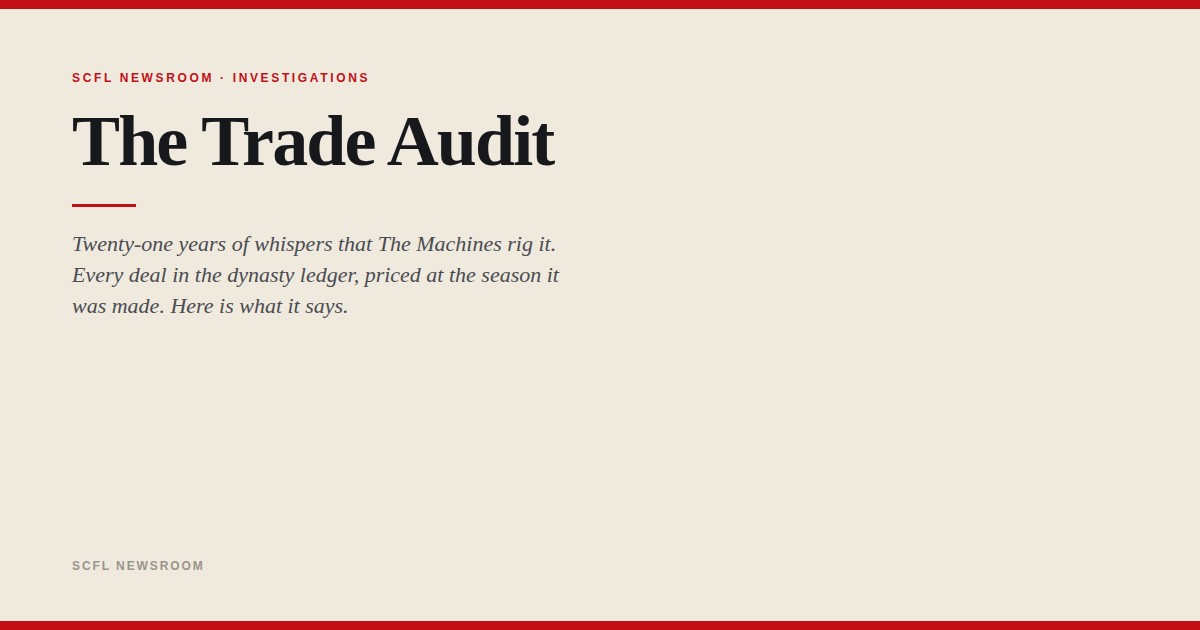
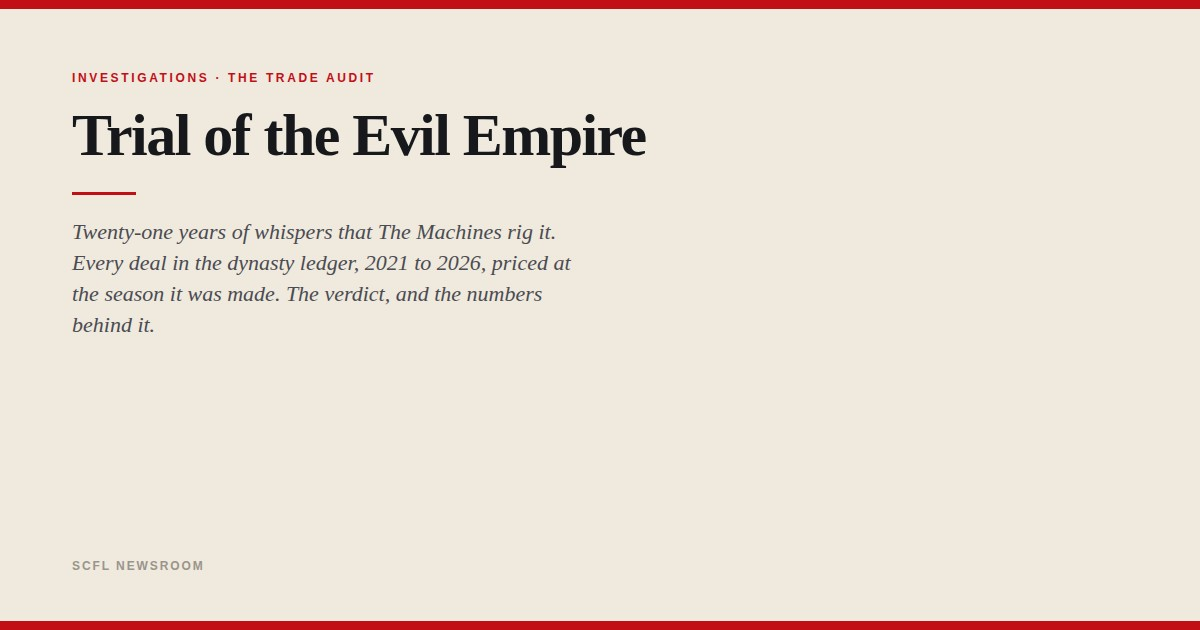
Trial of the Evil Empire, under the magazine masthead
New headline, and the cover now runs the Skirt Chasers wordmark rather
than a title set in type for this one story. It is the cut version with
the paper already removed, so it sits straight on the art, with the
Fantasy League Magazine strapline under it between gold rules -- the
same lockup the week issues were sampled with.

Two things the cover was doing wrong and nobody had looked at:

- the kicker read "SCFL NEWSROOM - SCFL NEWSROOM". The builder split
  the configured kicker on its separator, took the first half, then
  appended the newsroom again. It prints the kicker.
- a cover art file that is NAMED but not on disk rendered as a broken
  image icon across the headline. This article has no artwork yet, so
  it was one. The cover now checks the file is there and runs
  typographic if it is not, which is the house fallback everywhere
  else, and says so in the build output.

Title, tab, share card and og description all follow the new headline.

Claude-Session: https://claude.ai/code/session_01UFuyFKGPqfLKJjzL4J7sQk

diff --git a/scfl-trade-audit.html b/scfl-trade-audit.html
@@ -1,18 +1,18 @@
 <!doctype html>
 <html lang="en"><head><meta charset="utf-8">
 <meta name="viewport" content="width=device-width,initial-scale=1,viewport-fit=cover">
-<title>The Trade Audit — SCFL Investigations</title>
-<meta name="scfl:kicker" content="SCFL NewsRoom · Investigations">
+<title>Trial of the Evil Empire — SCFL Investigations</title>
+<meta name="scfl:kicker" content="Investigations · The Trade Audit">
 <meta property="og:type" content="article">
 <meta property="og:site_name" content="Skirt Chasers — Dynasty League Magazine">
-<meta property="og:title" content="The Trade Audit — Not Guilty of Cheating. Guilty of Being Good.">
-<meta property="og:description" content="Twenty-one years of whispers that The Machines rig it. Every deal in the dynasty ledger, priced at the season it was made. Here is what it says.">
+<meta property="og:title" content="Trial of the Evil Empire">
+<meta property="og:description" content="Twenty-one years of whispers that The Machines rig it. Every deal in the dynasty ledger, 2021 to 2026, priced at the season it was made. The verdict, and the numbers behind it.">
 <meta property="og:url" content="https://watsoncapitalinvest-dot.github.io/Claude/scfl-trade-audit.html">
 <meta property="og:image" content="https://watsoncapitalinvest-dot.github.io/Claude/scfl-trade-audit-og.jpg">
-<meta property="og:image:alt" content="The Trade Audit — Not Guilty of Cheating. Guilty of Being Good.">
+<meta property="og:image:alt" content="Trial of the Evil Empire">
 <meta name="twitter:card" content="summary_large_image">
-<meta name="twitter:title" content="The Trade Audit — Not Guilty of Cheating. Guilty of Being Good.">
-<meta name="twitter:description" content="SCFL: every Machines trade pulled, priced and counted. The verdict.">
+<meta name="twitter:title" content="Trial of the Evil Empire">
+<meta name="twitter:description" content="Trial of the Evil Empire: every Machines trade pulled, priced and counted.">
 <meta name="twitter:image" content="https://watsoncapitalinvest-dot.github.io/Claude/scfl-trade-audit-og.jpg">
 <link rel="icon" href="newsroom-favicon.png">
 <style>
@@ -78,6 +78,18 @@ p.b b{color:var(--ink);}
 .pc-art{flex:1 1 auto;min-height:0;width:100%;object-fit:contain;display:block;}
 .pc-bot{flex:0 0 auto;position:relative;text-align:center;padding:14px 22px 0;
   background:linear-gradient(180deg,rgba(10,8,6,0) 0%,#0a0806 22%);margin-top:-26px;}
+/* The magazine wordmark, when a story runs under the masthead rather than
+   under a title set in type. It arrives with its paper already cut away
+   (scripts/cut_wordmark.py), so it sits on the art with nothing behind it. */
+.pc-wm{display:block;width:84%;max-width:330px;height:auto;margin:0 auto;
+  filter:drop-shadow(0 3px 16px rgba(0,0,0,.95));}
+.pc-wmtag{display:flex;align-items:center;gap:9px;max-width:330px;margin:7px auto 0;}
+.pc-wmtag::before,.pc-wmtag::after{content:'';flex:1;height:1px;}
+.pc-wmtag::before{background:linear-gradient(90deg,transparent,#d8b45a);}
+.pc-wmtag::after{background:linear-gradient(90deg,#d8b45a,transparent);}
+.pc-wmtag span{font-family:var(--serif);font-weight:700;font-size:9.5px;letter-spacing:.26em;
+  text-transform:uppercase;color:#efe7d2;white-space:nowrap;
+  text-shadow:0 2px 10px rgba(0,0,0,.95);}
 .pc-mast{font-family:var(--serif);font-weight:900;font-size:44px;line-height:.98;color:#f7f3ec;
   text-shadow:0 2px 14px rgba(0,0,0,.9);}
 .pc-mast span{color:#e8393e;}
@@ -195,8 +207,8 @@ p.b b{color:var(--ink);}
 </head>
 <body>
 <div class="book"><div class="pages">
-<section class="page"><div class="photocover"><div class="pc-kick">SCFL NewsRoom &middot; SCFL NewsRoom</div><img class="pc-art" src="" alt="Not Guilty of Cheating. Guilty of Being Good."><div class="pc-bot"><div class="pc-mast">The Trade <span>Audit</span></div><div class="pc-rule"></div><div class="pc-h">Not Guilty of Cheating. Guilty of Being Good.</div><div class="pc-dek">For twenty-one years the league has whispered that The Machines rig it. We pulled every trade in the dynasty ledger — 2021 to 2026, the whole of it — and priced every asset at the season it moved in. Here is what it says.</div><div class="pc-by">The SCFL NewsRoom</div></div></div></section>
-<section class="page"><div class="page-inner"><div class="runhead">SCFL NewsRoom · Investigations · The Trade Audit</div><span class="flag">The Ledger · A Trade Audit</span><div class="dateline">WEST PALM BEACH, FLA.</div><h1 class="hl">Not Guilty of Cheating. Guilty of Being Good.</h1><p class="dek">For twenty-one years the league has whispered that The Machines rig it. We pulled every trade in the dynasty ledger — 2021 to 2026, the whole of it — and priced every asset at the season it moved in. Here is what it says.</p><p class="b"><span class="drop">T</span>here is a theory of the Skirt Chasers Fantasy League that has survived longer than most of the franchises in it. The theory is simple and it is repeated, in some form, every single autumn: The Machines cheat. The Machines are the Evil Empire. He preys on the weak owners, he collects the rebuilders like toll booths, and the rest of the league is left to split the scraps he does not want. It is a good story. It has a villain, it has victims, and it explains — cleanly, comfortably — why the same team keeps ending up on top. This newsroom decided to do the one thing nobody in twenty-one years of group chat had bothered to do. We pulled the receipts.</p></div></section>
+<section class="page"><div class="photocover"><div class="pc-kick">Investigations · The Trade Audit</div><div class="pc-bot"><img class="pc-wm" src="wordmark-alt-words.png" alt="Skirt Chasers"><div class="pc-wmtag"><span>Fantasy League Magazine</span></div><div class="pc-rule"></div><div class="pc-h">Trial of the Evil Empire</div><div class="pc-dek">For twenty-one years the league has whispered that The Machines rig it. We pulled every trade in the dynasty ledger — 2021 to 2026, the whole of it — and priced every asset at the season it moved in. Here is what it says.</div><div class="pc-by">The SCFL NewsRoom</div></div></div></section>
+<section class="page"><div class="page-inner"><div class="runhead">SCFL NewsRoom · Investigations · The Trade Audit</div><span class="flag">The Ledger · A Trade Audit</span><div class="dateline">WEST PALM BEACH, FLA.</div><h1 class="hl">Trial of the Evil Empire</h1><p class="dek">For twenty-one years the league has whispered that The Machines rig it. We pulled every trade in the dynasty ledger — 2021 to 2026, the whole of it — and priced every asset at the season it moved in. Here is what it says.</p><p class="b"><span class="drop">T</span>here is a theory of the Skirt Chasers Fantasy League that has survived longer than most of the franchises in it. The theory is simple and it is repeated, in some form, every single autumn: The Machines cheat. The Machines are the Evil Empire. He preys on the weak owners, he collects the rebuilders like toll booths, and the rest of the league is left to split the scraps he does not want. It is a good story. It has a villain, it has victims, and it explains — cleanly, comfortably — why the same team keeps ending up on top. This newsroom decided to do the one thing nobody in twenty-one years of group chat had bothered to do. We pulled the receipts.</p></div></section>
 <section class="page"><div class="page-inner"><div class="runhead">SCFL NewsRoom · Investigations · The Trade Audit</div><p class="b">The record itself is not in dispute, and it is the reason the theory exists at all. The Machines are 215-63 across the tracked era — a .773 winning percentage in a league where the next best side to have gone the full twenty-one seasons, The Beaver Eaters, sits on .590. Twenty playoff appearances in twenty-one seasons. Four championships, nine runner-up finishes, an all-play record (3,198-944-28) that reads like a typo. You do not have to like it to respect it, and most of the league has chosen the first option. When a team is that good for that long, the human brain does not reach for "well-run." It reaches for "rigged." That instinct is the entire case for the prosecution, and it is worth taking seriously — so we did.</p></div></section>
 <section class="page"><div class="page-inner"><div class="runhead">SCFL NewsRoom · Investigations · The Trade Audit</div><p class="b">The charge, stated plainly, is collusion: that The Machines win because a handful of soft, compliant owners feed them their best players for pennies. If that were true, it would leave a fingerprint. Collusion is narrow by nature — you cannot conspire with the whole room. So we mapped every trade in the itemised ledger, 256 deals from 2021 to 2026, which is the dynasty era and all of it; there was no dynasty market before that and so there is nothing before that to read. Sixty-seven of those deals have The Machines on one side of the table.</p><p class="b">The first thing the ledger does is refuse to clear him. His most frequent partner is Lil Chops, with fifteen deals. Second is Wookie Leaks, with fourteen. Between them that is twenty-nine of his sixty-seven deals — about 43 per cent of everything he has done — and both of them come from the bottom of the all-time table. Wookie Leaks have the worst winning percentage of any side still in this league, 51-97, and have never made the playoffs in eleven seasons. Lil Chops are third-worst of the sixteen, at 40-56. If you wanted to draw the prosecution case as a chart, that is the chart. We are not going to pretend otherwise, because it is the first thing in the file.</p></div></section>
 <section class="page"><div class="page-inner"><div class="runhead">SCFL NewsRoom · Investigations · The Trade Audit</div><p class="b">The second thing the ledger does is refuse to convict him. Those sixty-seven deals are spread across fourteen different franchises — effectively everyone who has held a roster in the dynasty era. Twenty-seven of them were with sides that have made the playoffs ten times or more. Twenty-six were with sides that have won the thing. His joint-second most frequent partner is Powers of Pain, who own five championships — more than The Machines do — and who have done eight deals with them. That is not a cabal of three. That is a man doing business with the entire building, including the parts of it that can beat him.</p></div></section>
@@ -225,5 +237,5 @@ function hideHint(){if(hint){hint.classList.add('gone');setTimeout(function(){hi
 window.SCFLFlip={go:function(i){if(busy)return;i=Math.max(0,Math.min(N-1,i|0));if(i===cur)return;cur=i;settle();pages[cur].scrollTop=0;hideHint();},at:function(){return cur;},count:function(){return N;},pageOf:function(el){var pg=el&&el.closest&&el.closest('.page');return pg?pages.indexOf(pg):-1;}};
 nextB.addEventListener('click',next);prevB.addEventListener('click',prev);document.addEventListener('keydown',function(ev){if(ev.key==='ArrowRight')next();else if(ev.key==='ArrowLeft')prev();});
 var sx=0,sy=0,axis='';document.addEventListener('touchstart',function(ev){var t=ev.touches[0];sx=t.clientX;sy=t.clientY;axis='';},{passive:true});document.addEventListener('touchmove',function(ev){var t=ev.touches[0];var dx=t.clientX-sx,dy=t.clientY-sy;if(!axis&&(Math.abs(dx)>10||Math.abs(dy)>10))axis=Math.abs(dx)>Math.abs(dy)?'x':'y';if(axis==='x')ev.preventDefault();},{passive:false});document.addEventListener('touchend',function(ev){var t=ev.changedTouches[0];var dx=t.clientX-sx;if(axis==='x'&&Math.abs(dx)>55){if(ev.cancelable)ev.preventDefault();if(dx<0)next();else prev();}},{passive:false});settle();})();</script>
-<script>document.getElementById("shareBtn").addEventListener("click",async function(){var u=location.href.split("#")[0];var data={title:"The Trade Audit \u2014 Not Guilty of Cheating. Guilty of Being Good.",text:"SCFL: every Machines trade pulled, priced and counted. The verdict.",url:u};if(navigator.share){try{await navigator.share(data);return;}catch(e){if(e&&e.name==="AbortError")return;}}try{await navigator.clipboard.writeText(u);}catch(e){}var b=this,t=b.textContent;b.textContent="\u2713 Link copied";setTimeout(function(){b.textContent=t;},1800);});</script>
+<script>document.getElementById("shareBtn").addEventListener("click",async function(){var u=location.href.split("#")[0];var data={title:"Trial of the Evil Empire",text:"Trial of the Evil Empire: every Machines trade pulled, priced and counted.",url:u};if(navigator.share){try{await navigator.share(data);return;}catch(e){if(e&&e.name==="AbortError")return;}}try{await navigator.clipboard.writeText(u);}catch(e){}var b=this,t=b.textContent;b.textContent="\u2713 Link copied";setTimeout(function(){b.textContent=t;},1800);});</script>
 </body></html>

diff --git a/scripts/build_story_page.py b/scripts/build_story_page.py
@@ -21,18 +21,21 @@ SITE = 'https://watsoncapitalinvest-dot.github.io/Claude/'
 STORIES = {
  'trade-audit': {
    'out': 'scfl-trade-audit.html',
-   'tab': 'The Trade Audit — SCFL Investigations',
-   'kicker': 'SCFL NewsRoom · Investigations',
+   'tab': 'Trial of the Evil Empire — SCFL Investigations',
+   'kicker': 'Investigations · The Trade Audit',
    'runhead': 'SCFL NewsRoom · Investigations · The Trade Audit',
-   'mast': ('The Trade ', 'Audit'),
+   'mast': ('Trial of the ', 'Evil Empire'),   # fallback if the wordmark is missing
+   'wordmark': 'wordmark-alt-words.png',
+   'strapline': 'Fantasy League Magazine',
    'flag': 'The Ledger · A Trade Audit',
    'dek': True,
    'art': '',
    'og': 'scfl-trade-audit-og.jpg',
-   'ogtitle': 'The Trade Audit — Not Guilty of Cheating. Guilty of Being Good.',
+   'ogtitle': 'Trial of the Evil Empire',
    'ogdesc': ('Twenty-one years of whispers that The Machines rig it. Every deal in the '
-              'dynasty ledger, priced at the season it was made. Here is what it says.'),
-   'sharetext': 'SCFL: every Machines trade pulled, priced and counted. The verdict.',
+              'dynasty ledger, 2021 to 2026, priced at the season it was made. The '
+              'verdict, and the numbers behind it.'),
+   'sharetext': 'Trial of the Evil Empire: every Machines trade pulled, priced and counted.',
    'covernote': 'Every asset priced at the season it moved in.',
    'freeze_after': None,
    'art_topset': False,
@@ -107,6 +110,18 @@ EXTRA_CSS = """
 .pc-art{flex:1 1 auto;min-height:0;width:100%;object-fit:contain;display:block;}
 .pc-bot{flex:0 0 auto;position:relative;text-align:center;padding:14px 22px 0;
   background:linear-gradient(180deg,rgba(10,8,6,0) 0%,#0a0806 22%);margin-top:-26px;}
+/* The magazine wordmark, when a story runs under the masthead rather than
+   under a title set in type. It arrives with its paper already cut away
+   (scripts/cut_wordmark.py), so it sits on the art with nothing behind it. */
+.pc-wm{display:block;width:84%;max-width:330px;height:auto;margin:0 auto;
+  filter:drop-shadow(0 3px 16px rgba(0,0,0,.95));}
+.pc-wmtag{display:flex;align-items:center;gap:9px;max-width:330px;margin:7px auto 0;}
+.pc-wmtag::before,.pc-wmtag::after{content:'';flex:1;height:1px;}
+.pc-wmtag::before{background:linear-gradient(90deg,transparent,#d8b45a);}
+.pc-wmtag::after{background:linear-gradient(90deg,#d8b45a,transparent);}
+.pc-wmtag span{font-family:var(--serif);font-weight:700;font-size:9.5px;letter-spacing:.26em;
+  text-transform:uppercase;color:#efe7d2;white-space:nowrap;
+  text-shadow:0 2px 10px rgba(0,0,0,.95);}
 .pc-mast{font-family:var(--serif);font-weight:900;font-size:44px;line-height:.98;color:#f7f3ec;
   text-shadow:0 2px 14px rgba(0,0,0,.9);}
 .pc-mast span{color:#e8393e;}
@@ -212,25 +227,42 @@ def build(slug):
         start = b
     body = '\n'.join(pages)
 
+    def masthead():
+        if cfg.get('wordmark'):
+            return ('<img class="pc-wm" src="' + cfg['wordmark'] + '" alt="Skirt Chasers">'
+                    + ('<div class="pc-wmtag"><span>' + esc(cfg['strapline']) + '</span></div>'
+                       if cfg.get('strapline') else ''))
+        return ('<div class="pc-mast">' + cfg['mast'][0] + '<span>' + cfg['mast'][1]
+                + '</span></div>')
+
+    # An art file that is named but not on disk renders as a broken-image icon
+    # over the headline. Until the artwork arrives the cover runs typographic,
+    # which is the house fallback everywhere else too.
+    have_art = bool(cfg.get('art')) and os.path.exists(os.path.join(ROOT, cfg['art']))
+    if cfg.get('art') and not have_art:
+        print('  note: cover art', cfg['art'], 'not present — cover runs without it')
+    art_img = ('<img class="pc-art" src="' + cfg['art'] + '" alt="' + esc(art['headline'])
+               + '">') if have_art else ''
+
     if cfg.get('art_topset'):
         cover = ('<section class="page"><div class="photocover topset">'
-                 '<img class="pc-art" src="' + cfg['art'] + '" alt="' + esc(art['headline']) + '">'
+                 + art_img +
                  '<div class="pc-set">'
-                 '<div class="pc-kick">' + cfg['kicker'].split('·')[0].strip() + ' &middot; SCFL NewsRoom</div>'
-                 '<div class="pc-mast">' + cfg['mast'][0] + '<span>' + cfg['mast'][1] + '</span></div>'
+                 '<div class="pc-kick">' + cfg['kicker'] + '</div>'
+                 + masthead() +
                  '<div class="pc-rule"></div>'
                  '<div class="pc-h">' + esc(art['subhead'].split('.')[0]) + '.</div>'
                  '</div></div></section>')
     elif cfg.get('plain_art'):
         cover = ('<section class="page"><div class="photocover plain">'
-                 '<img class="pc-art" src="' + cfg['art'] + '" alt="' + esc(art['headline']) + '">'
+                 + art_img +
                  '</div></section>')
     else:
         cover = ('<section class="page"><div class="photocover">'
-             '<div class="pc-kick">' + cfg['kicker'].split('·')[0].strip() + ' &middot; SCFL NewsRoom</div>'
-             '<img class="pc-art" src="' + cfg['art'] + '" alt="' + esc(art['headline']) + '">'
+             '<div class="pc-kick">' + cfg['kicker'] + '</div>'
+             + art_img +
              '<div class="pc-bot">'
-             '<div class="pc-mast">' + cfg['mast'][0] + '<span>' + cfg['mast'][1] + '</span></div>'
+             + masthead() +
              '<div class="pc-rule"></div>'
              '<div class="pc-h">' + esc(art['headline']) + '</div>'
              '<div class="pc-dek">' + esc(art['subhead']) + '</div>'

diff --git a/scripts/build_trade_audit.py b/scripts/build_trade_audit.py
@@ -542,6 +542,7 @@ def build():
     old = next((x for x in inv if x.get('id') == ARTICLE_ID), None)
     if old is None:
         raise SystemExit(f'{ARTICLE_ID} not in investigations.json')
+    old['headline'] = 'Trial of the Evil Empire'
     old['subhead'] = (f'For twenty-one years the league has whispered that The Machines '
                       f'rig it. We pulled every trade in the dynasty ledger — '
                       f'{F["span"][0]} to {F["span"][1]}, the whole of it — and priced '
